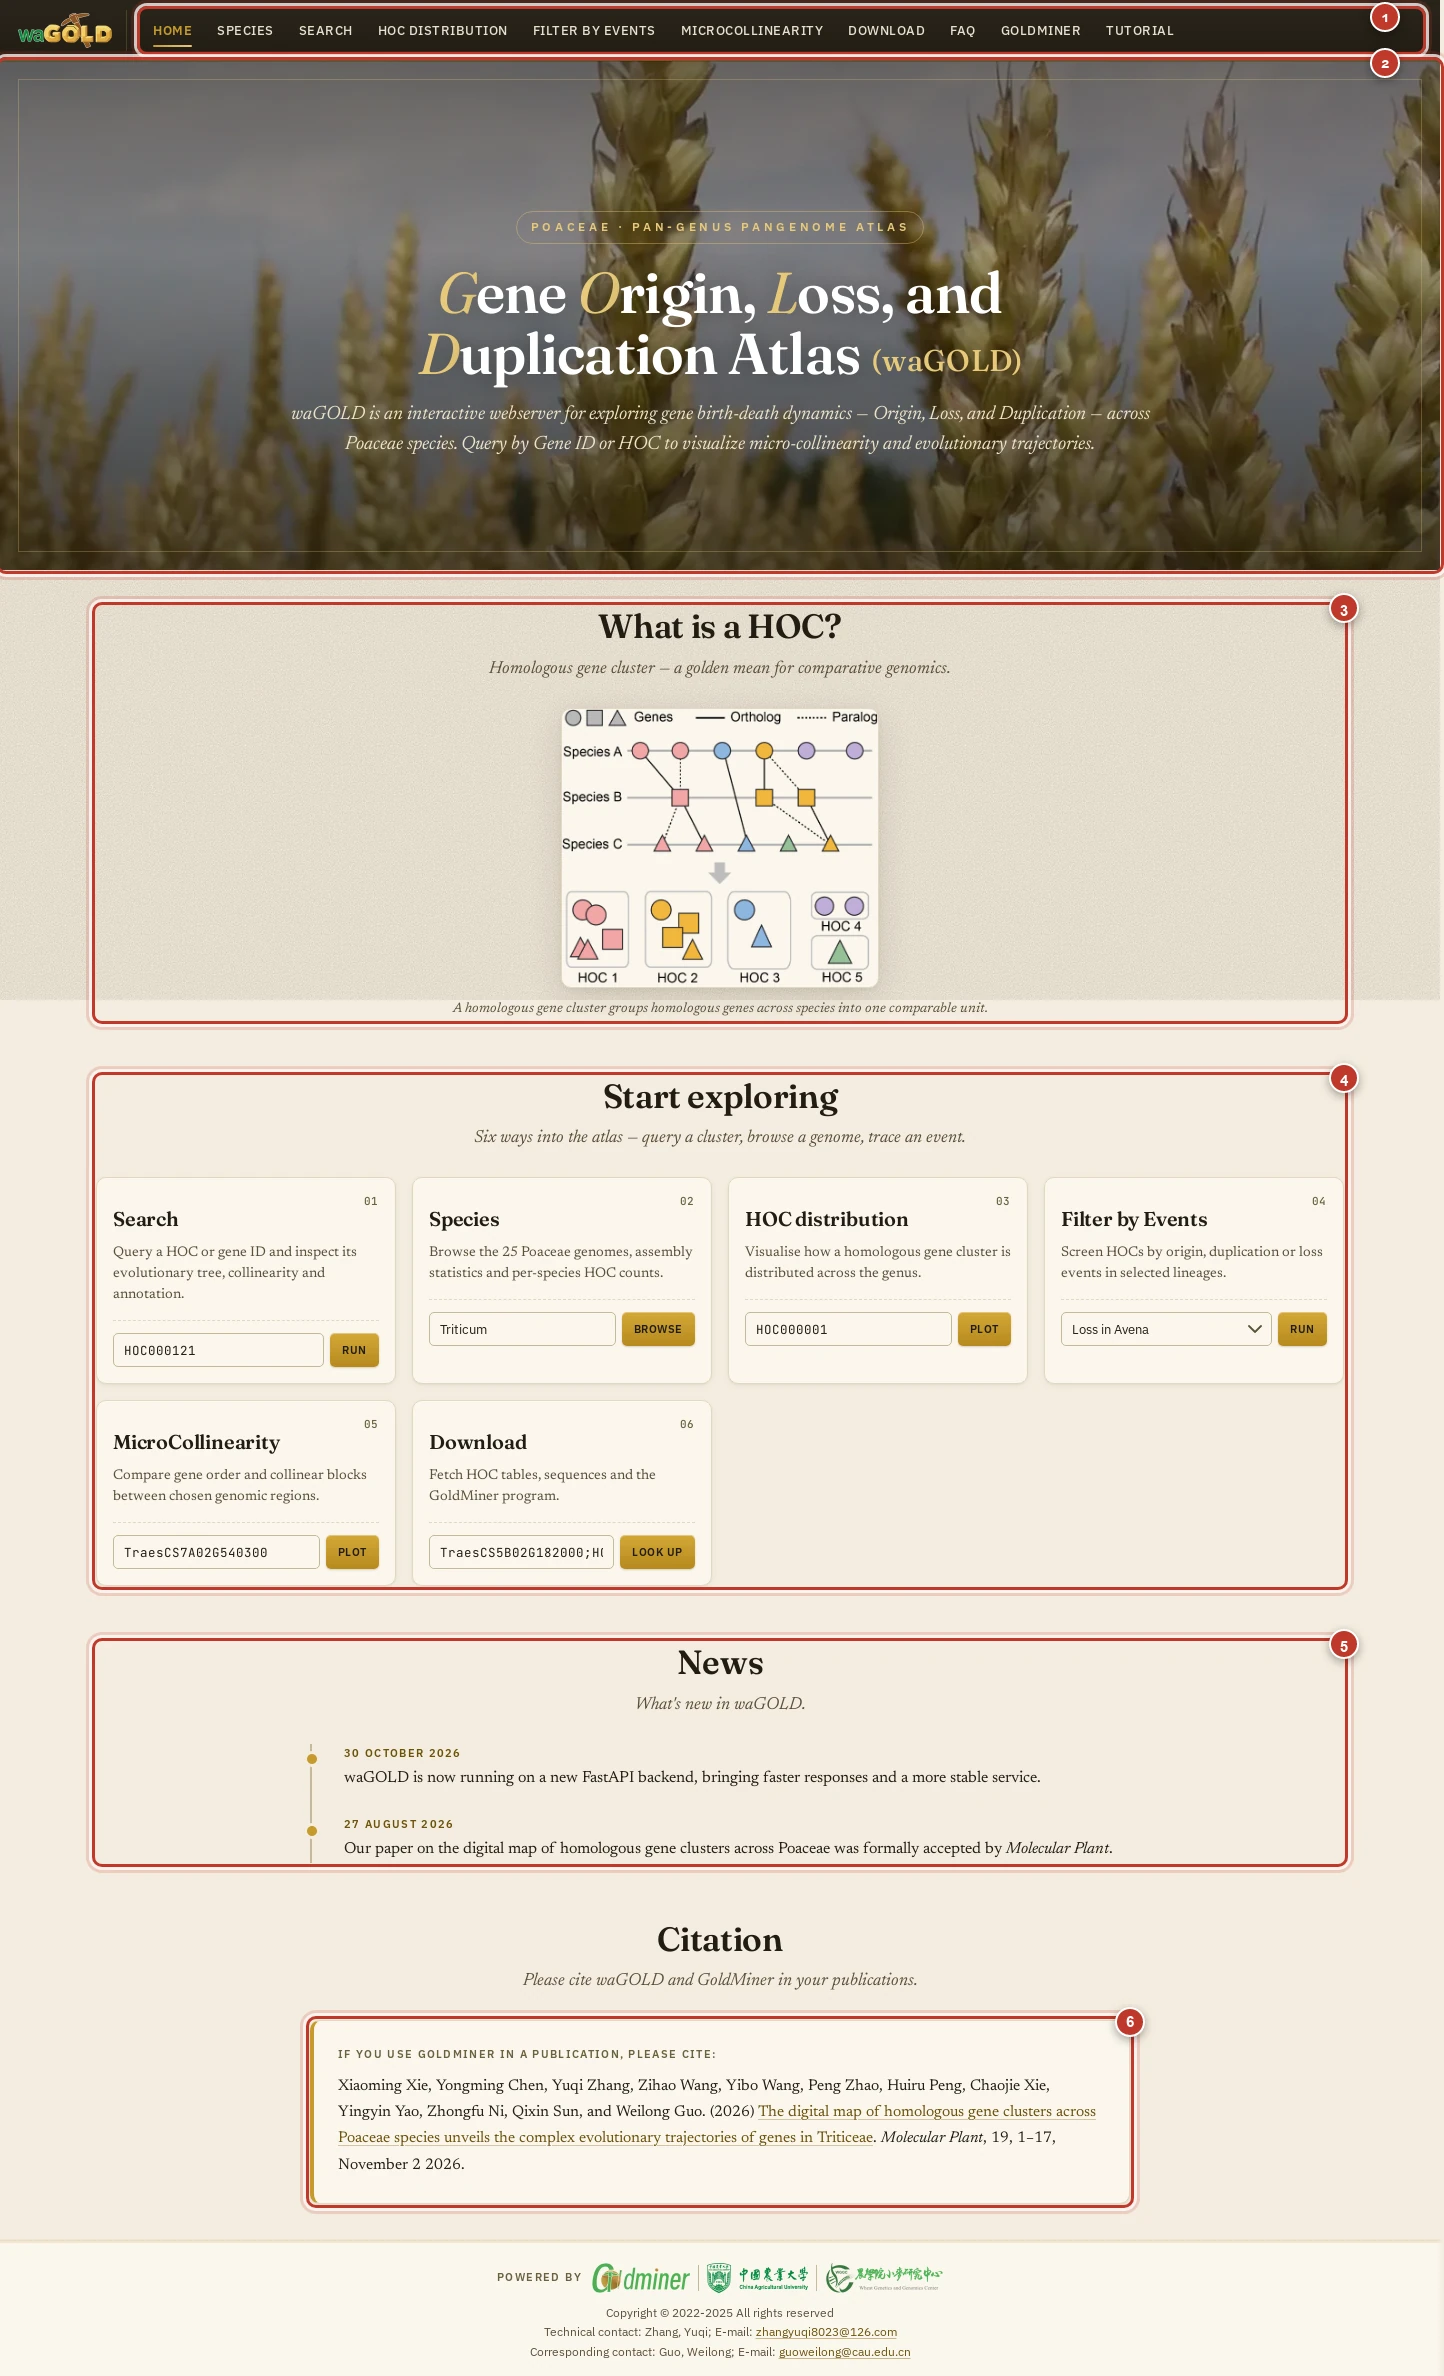
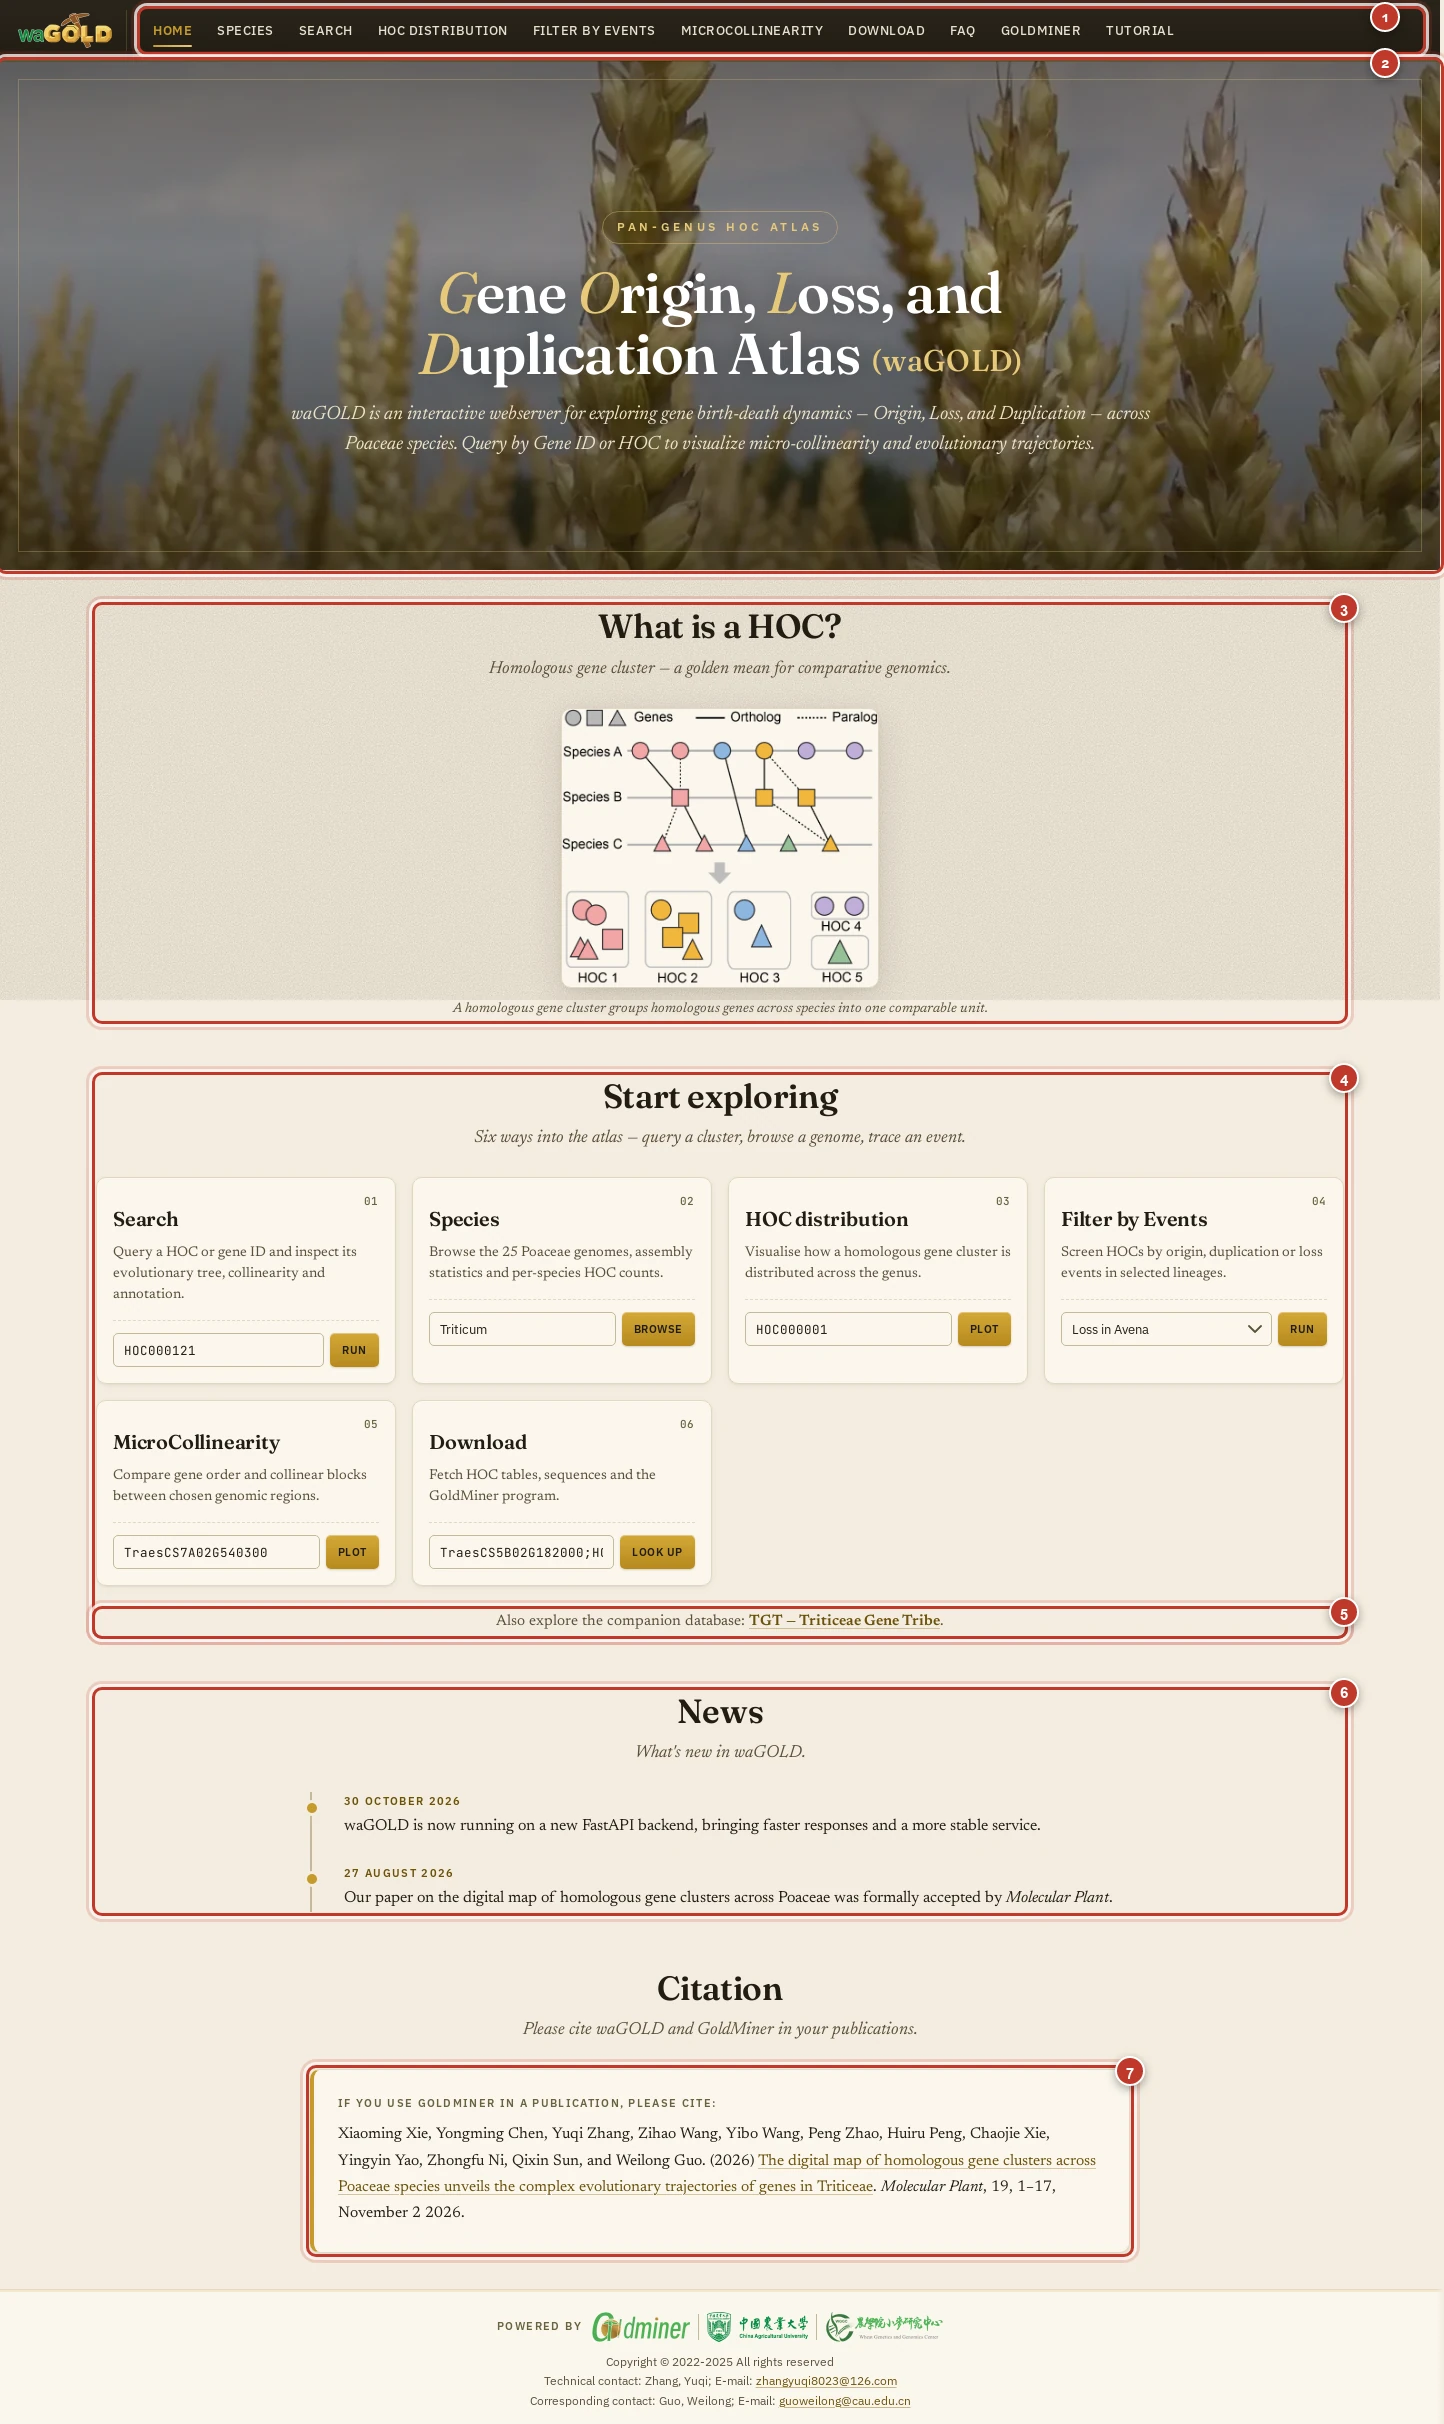
docs: add TGT link to homepage tutorial

diff --git a/waGOLD/README.md b/waGOLD/README.md
@@ -6,15 +6,17 @@
 
 **1. Top navigation.** Jump directly to Species, Search, HOC distribution, Filter by Events, MicroCollinearity, Download and FAQ.
 
-**2. Homepage hero.** waGOLD is an interactive webserver for exploring gene birth-death dynamics — Gene Origin, Loss and Duplication — across Poaceae species.
+**2. Homepage hero.** The eyebrow reads **Pan-genus HOC Atlas**. waGOLD is an interactive webserver for exploring gene birth-death dynamics — Gene Origin, Loss and Duplication — across Poaceae species.
 
 **3. What is a HOC?** A short definition and schematic of a Homologous Gene Cluster (HOC).
 
 **4. Start exploring.** Six functional cards, each with a prefilled example. Edit the ID if needed and click the action button to open the corresponding page with the example already running.
 
-**5. News.** Release notes, including the FastAPI backend update and paper acceptance.
+**5. TGT link.** Opens the companion TGT (Triticeae Gene Tribe) database.
 
-**6. Citation.** If you use GoldMiner or waGOLD in a publication, please cite the paper shown here.
+**6. News.** Release notes, including the FastAPI backend update and paper acceptance.
+
+**7. Citation.** If you use GoldMiner or waGOLD in a publication, please cite the paper shown here.
 
 ## Note
 

diff --git a/waGOLD/zh-cn.md b/waGOLD/zh-cn.md
@@ -6,15 +6,17 @@
 
 **1. 顶部导航栏。** 可直接进入 Species、Search、HOC distribution、Filter by Events、MicroCollinearity、Download 和 FAQ。
 
-**2. 主页标题区。** waGOLD 是一个交互式 webserver，用于研究禾本科物种中的基因起源、丢失和复制事件。
+**2. 主页标题区。** 顶部标签为 **Pan-genus HOC Atlas**。waGOLD 是一个交互式 webserver，用于研究禾本科物种中的基因起源、丢失和复制事件。
 
 **3. What is a HOC?** 同源基因簇（Homologous Gene Cluster, HOC）的定义与示意图。
 
 **4. Start exploring。** 六个功能卡片，每个卡片都预填了示例。可直接修改 ID 后点击按钮，打开对应页面并自动运行示例。
 
-**5. News。** 网站更新记录，包括 FastAPI 后端上线和论文接收信息。
+**5. TGT 链接。** 跳转到配套的 TGT（Triticeae Gene Tribe）数据库。
 
-**6. Citation。** 如果使用 GoldMiner 或 waGOLD，请引用这里列出的论文。
+**6. News。** 网站更新记录，包括 FastAPI 后端上线和论文接收信息。
+
+**7. Citation。** 如果使用 GoldMiner 或 waGOLD，请引用这里列出的论文。
 
 ## 说明
 
